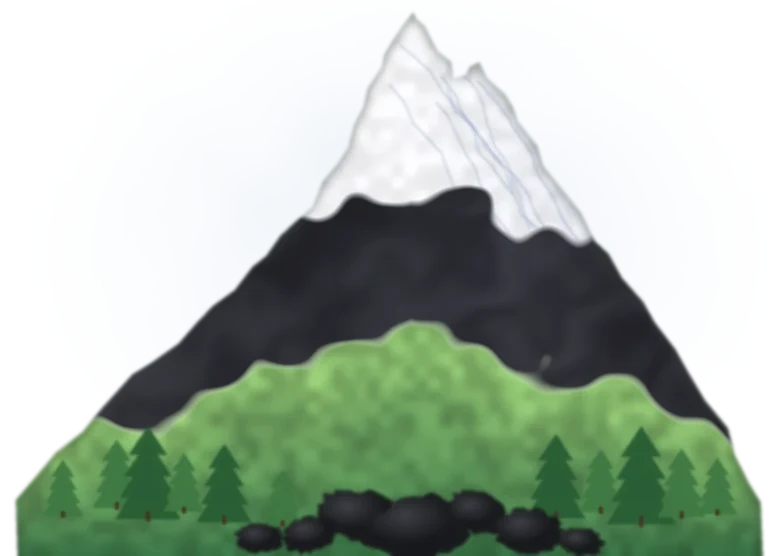
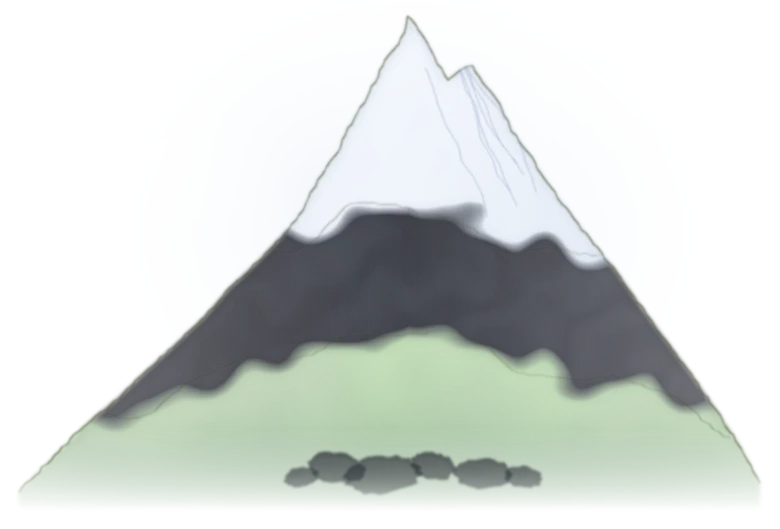
Dress code : montagne plus épurée (lavis doux, traits fins), légendes et croix affinées
Claude-Session: https://claude.ai/code/session_01QrDSt8mKtao2LUWf4nzVT7

diff --git a/index.html b/index.html
@@ -598,10 +598,10 @@ body.on-conn #edit-fab{display:none}
 .dr .txt{margin:0;font-size:var(--fs-small);line-height:1.65;max-width:25em;color:var(--olive)}
 .dr-couleurs .txt{max-width:34em}
 .mont{margin:0;position:relative;width:100%;max-width:min(560px,calc(35vh * 1.4))}
-.mont img.watercolor{width:100%;height:auto;display:block;-webkit-mask-image:radial-gradient(ellipse 80% 92% at 50% 46%,#000 68%,transparent 100%);mask-image:radial-gradient(ellipse 80% 92% at 50% 46%,#000 68%,transparent 100%)}
+.mont img.watercolor{width:100%;height:auto;display:block;-webkit-mask-image:radial-gradient(ellipse 96% 104% at 50% 44%,#000 80%,transparent 100%);mask-image:radial-gradient(ellipse 92% 100% at 50% 44%,#000 78%,transparent 100%)}
 .mont svg{position:absolute;inset:0;width:100%;height:100%;overflow:visible;pointer-events:none}
-.mont .ld{fill:none;stroke:var(--alert);stroke-width:.28;stroke-dasharray:.9 .9;opacity:.8}
-.mont .cx line{stroke:var(--alert);stroke-width:.95;stroke-linecap:round}
+.mont .ld{fill:none;stroke:var(--alert);stroke-width:.22;opacity:.7}
+.mont .cx line{stroke:var(--alert);stroke-width:.7;stroke-linecap:round}
 .mont text{font-family:var(--script);font-size:5.8px;fill:var(--alert)}
 .mont text.sub{font-family:var(--serif);font-size:2.3px;letter-spacing:.3px;text-transform:uppercase;fill:var(--olive);opacity:.9}
 @media(max-width:820px){.dress{grid-template-columns:1fr 1fr}.dr-couleurs{grid-column:1/-1;order:-1}.dr > img.watercolor{height:clamp(130px,22vh,200px)}}
@@ -796,11 +796,11 @@ details[open] > :not(summary){animation:unfold .45s ease-out backwards}
         </article>
         <article class="dr dr-couleurs">
           <figure class="mont" aria-label="Une montagne : la neige est blanche, la roche noire, la prairie verte. Ces trois couleurs sont interdites dans vos tenues.">
-            <img class="watercolor" src="img/dc-montagne.webp" alt="" width="780" height="556">
-            <svg viewBox="0 0 100 71.3" aria-hidden="true">
-              <g class="mk"><path class="ld" d="M51 17 L37 12"/><path class="ld" d="M51 17 L51 17"/><g class="cx"><line pathLength="1" x1="48.6" y1="14.6" x2="53.4" y2="19.4"/><line class="b" pathLength="1" x1="48.6" y1="19.4" x2="53.4" y2="14.6"/></g><text x="35.5" y="11.4" text-anchor="end">Blanc</text><text class="sub" x="35.5" y="16.2" text-anchor="end">la neige</text></g>
-              <g class="mk"><path class="ld" d="M61 40 L84 34"/><g class="cx"><line pathLength="1" x1="58.6" y1="37.6" x2="63.4" y2="42.4"/><line class="b" pathLength="1" x1="58.6" y1="42.4" x2="63.4" y2="37.6"/></g><text x="85.5" y="33.4" text-anchor="start">Noir</text><text class="sub" x="85.5" y="37.6" text-anchor="start">la roche</text></g>
-              <g class="mk"><path class="ld" d="M33 57 L20 47"/><g class="cx"><line pathLength="1" x1="30.6" y1="54.6" x2="35.4" y2="59.4"/><line class="b" pathLength="1" x1="30.6" y1="59.4" x2="35.4" y2="54.6"/></g><text x="1" y="45.2" text-anchor="start">Vert</text><text class="sub" x="1" y="49.4" text-anchor="start">la prairie</text></g>
+            <img class="watercolor" src="img/dc-montagne.webp" alt="" width="780" height="529">
+            <svg viewBox="0 0 100 67.8" aria-hidden="true">
+              <g class="mk"><path class="ld" d="M52 17 L33 11"/><g class="cx"><line pathLength="1" x1="50" y1="15" x2="54" y2="19"/><line class="b" pathLength="1" x1="50" y1="19" x2="54" y2="15"/></g><text x="31.5" y="10.4" text-anchor="end">Blanc</text><text class="sub" x="31.5" y="14.8" text-anchor="end">la neige</text></g>
+              <g class="mk"><path class="ld" d="M64 36 L82 30"/><g class="cx"><line pathLength="1" x1="62" y1="34" x2="66" y2="38"/><line class="b" pathLength="1" x1="62" y1="38" x2="66" y2="34"/></g><text x="83.5" y="29.4" text-anchor="start">Noir</text><text class="sub" x="83.5" y="33.6" text-anchor="start">la roche</text></g>
+              <g class="mk"><path class="ld" d="M36 51 L19 43"/><g class="cx"><line pathLength="1" x1="34" y1="49" x2="38" y2="53"/><line class="b" pathLength="1" x1="34" y1="53" x2="38" y2="49"/></g><text x="1" y="41.6" text-anchor="start">Vert</text><text class="sub" x="1" y="45.8" text-anchor="start">la prairie</text></g>
             </svg>
           </figure>
           <h3>Couleurs interdites</h3>
